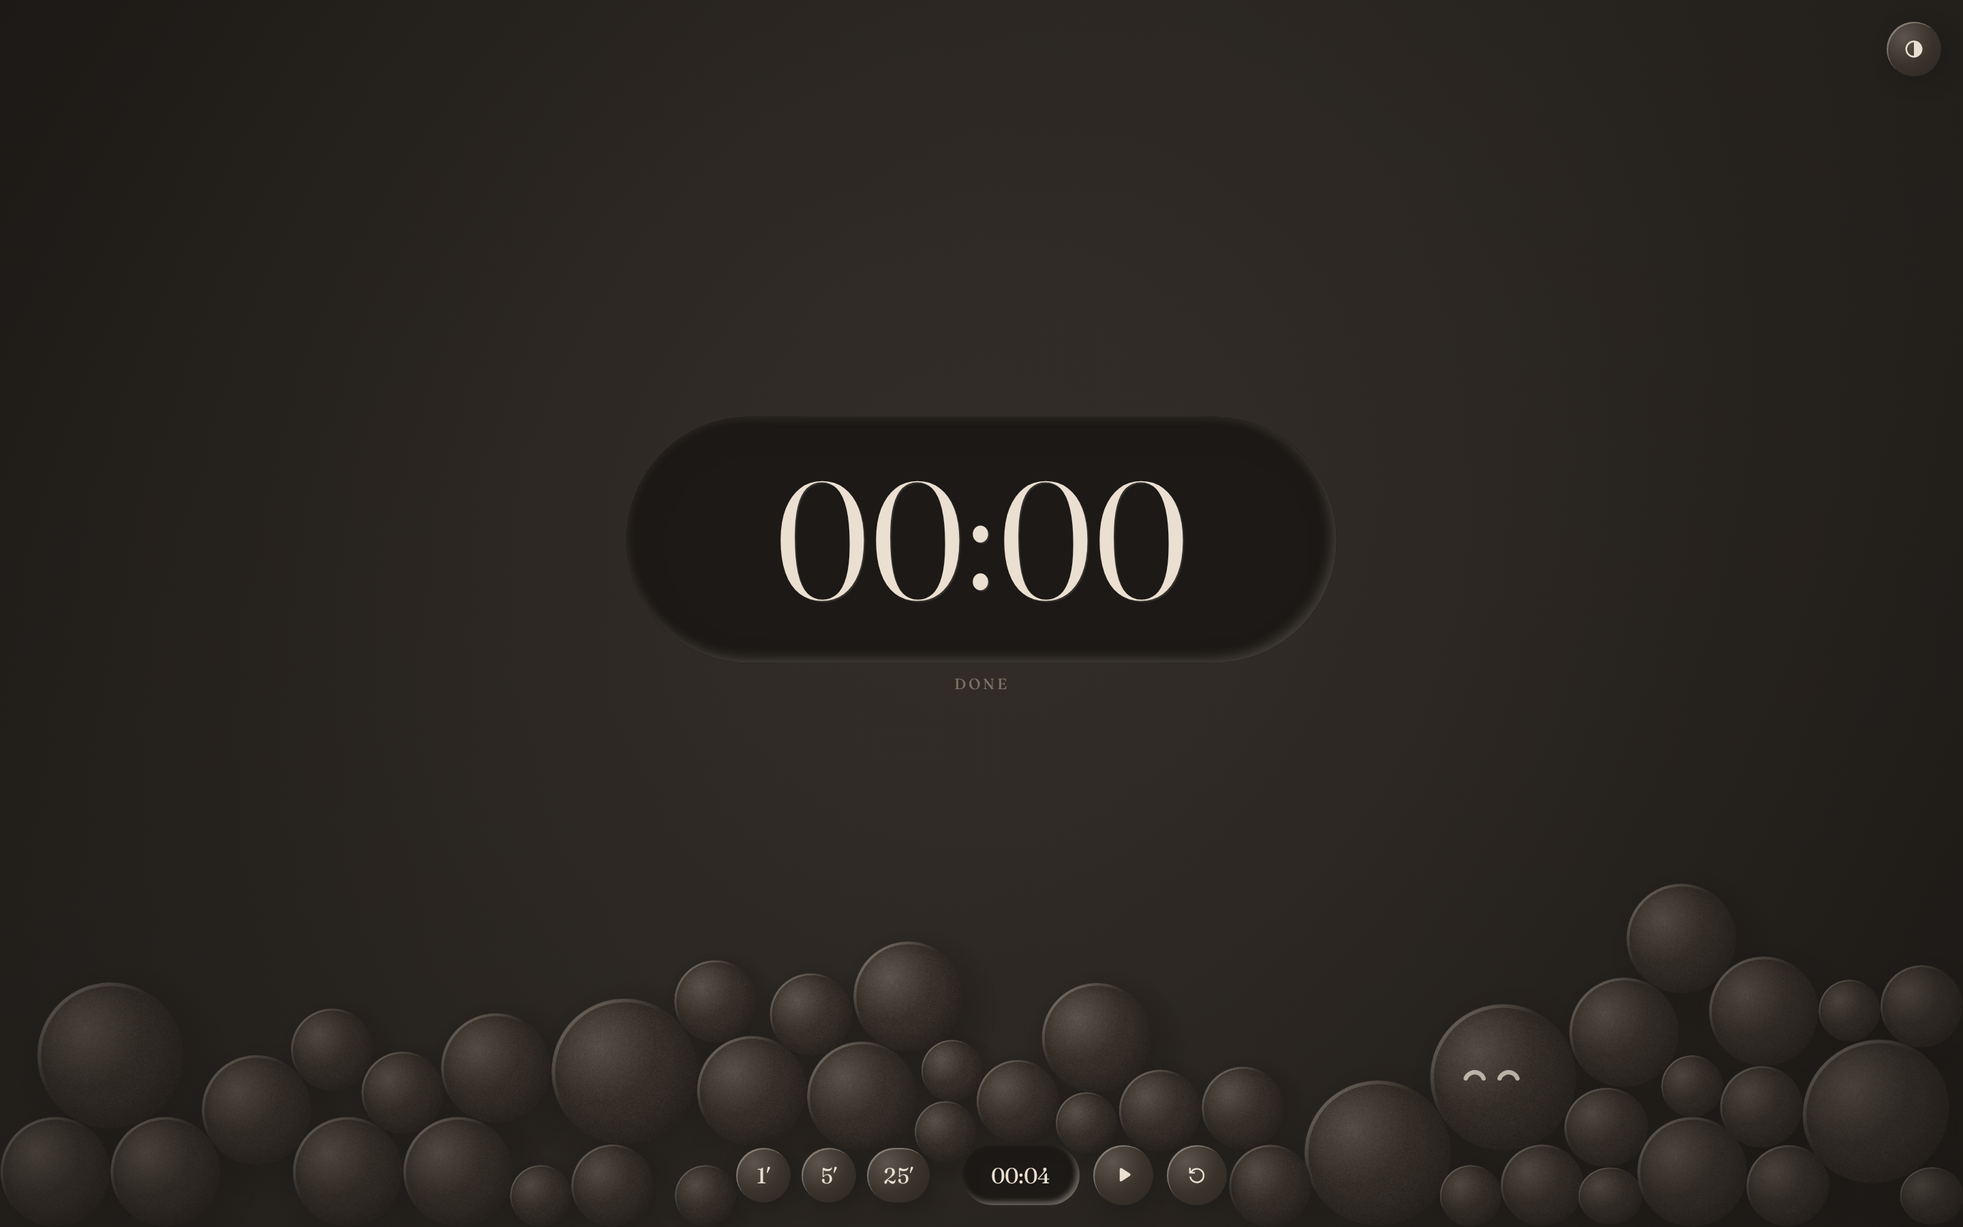
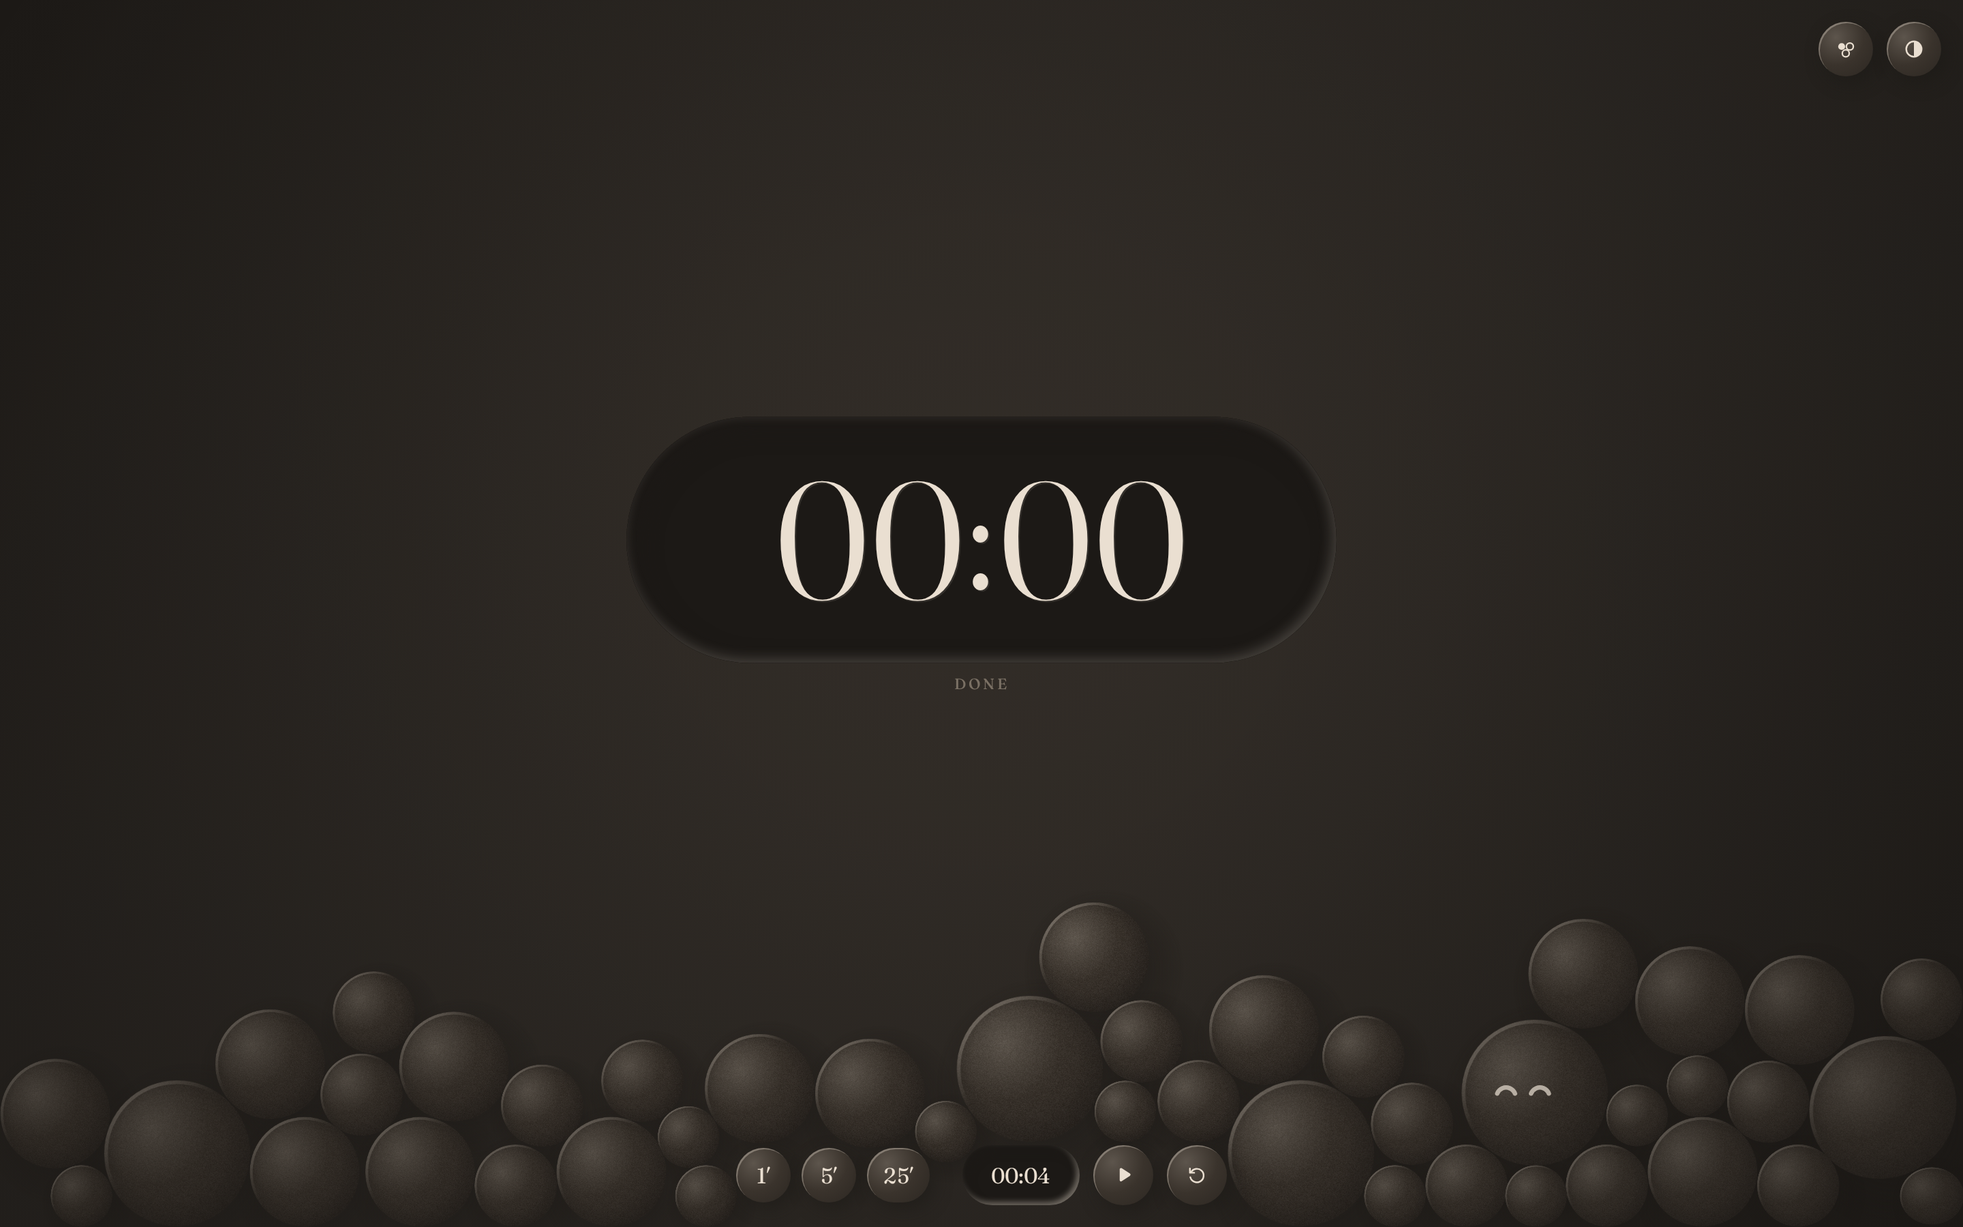
Expand multicolor mode into six glaze sets with a swatch tray
- Glazes: Kiln (mono), Celadon, Indigo, Matcha, Sakura, Sumi; each a full
  5-color light/dark system applied as tokens
- Debossed swatch tray from the glaze button; G key cycles; choice persists
- Legacy ?glaze=mixed maps to Celadon
- DESIGN.md section 10 rewritten; glaze-* screenshots

Claude-Session: https://claude.ai/code/session_01RTcCsnNEE6vf2bpxptQvy7

diff --git a/dots-countdown.html b/dots-countdown.html
@@ -16,9 +16,6 @@
   --umber: #4A3A2E;
   --ember: #C8643B;
   --ash:   #8C8072;
-  /* 多色陶石（Glaze: mixed）才使用的兩種釉色 */
-  --celadon: #AEBBA7;
-  --terra:   #C8643B;
   /* 光的角色（由具名色推得，不是新顏色） */
   --bright: var(--kiln);
   --deep:   var(--umber);
@@ -38,7 +35,6 @@
 @media (prefers-color-scheme: dark) {
   :root:not([data-theme="light"]) {
     --kiln:  #1C1916; --clay: #3A332C; --umber: #EADFD1; --ember: #E3804F; --ash: #7A7064;
-    --celadon: #2E3A33; --terra: #E3804F;
     --bright: var(--umber); --deep: var(--kiln);
     --hl: 22%; --dk: 45%; --sh-a: 55%; --rim-a: 35%; --wt-digits: 340;
     color-scheme: dark;
@@ -46,17 +42,11 @@
 }
 :root[data-theme="dark"] {
   --kiln:  #1C1916; --clay: #3A332C; --umber: #EADFD1; --ember: #E3804F; --ash: #7A7064;
-  --celadon: #2E3A33; --terra: #E3804F;
   --bright: var(--umber); --deep: var(--kiln);
   --hl: 22%; --dk: 45%; --sh-a: 55%; --rim-a: 35%; --wt-digits: 340;
   color-scheme: dark;
 }
-/* 多色陶石：5 色 = Kiln / Umber / Oat(=Clay) / Celadon / Terracotta。
-   Terracotta 兼任強調色；Ash 不再是具名色，改由 Kiln 混 Umber 58% 推得。 */
-:root[data-glaze="mixed"] {
-  --ember: var(--terra);
-  --ash: color-mix(in oklab, var(--kiln), var(--umber) 58%);
-}
+/* 釉組（多色陶石）：由 JS 以 inline 變數覆寫同一組 token，見 GLAZES 與 DESIGN.md §10 */
 
 * { box-sizing: border-box; }
 html, body { margin: 0; height: 100%; }
@@ -152,6 +142,33 @@ canvas#stage.grabbing { cursor: grabbing; }
 #play.paused { color: var(--ember); }   /* Ember 的第 2 種用途 */
 .corner { position: fixed; top: max(16px, env(safe-area-inset-top)); right: 16px; display: flex; gap: 10px; }
 .corner .clay { --size: 40px; }
+/* 釉組色票：凹陷的托盤，裡面是凸起的陶土色票 */
+.tray {
+  position: fixed; right: 16px; top: calc(max(16px, env(safe-area-inset-top)) + 54px);
+  display: flex; align-items: center; gap: 8px;
+  padding: 6px 6px 6px 16px; border-radius: 28px;
+  background: var(--kiln);
+  box-shadow:
+    inset 3px 4px 7px color-mix(in srgb, var(--deep) calc(var(--sh-a) * 1.3), transparent),
+    inset -2px -2px 4px color-mix(in srgb, var(--bright) 45%, transparent);
+  opacity: 0; visibility: hidden; transform: translateY(-6px);
+  transition: opacity var(--t3) var(--kiln-ease), transform var(--t3) var(--kiln-ease), visibility 0s linear var(--t3);
+}
+.tray.open { opacity: 1; visibility: visible; transform: none; transition-delay: 0s; }
+.tray-label {
+  font-size: var(--fs-0); font-weight: 500; letter-spacing: 0.14em; text-transform: uppercase;
+  color: var(--ash); min-width: 7.5em; white-space: nowrap;
+}
+.chips { display: flex; gap: 6px; }
+.chips .clay { --size: 36px; }
+.chips .clay svg { width: 22px; height: 22px; }
+#glaze[aria-expanded="true"] {
+  background: var(--kiln);
+  box-shadow:
+    inset 3px 4px 7px color-mix(in srgb, var(--deep) calc(var(--sh-a) * 1.3), transparent),
+    inset -2px -2px 4px color-mix(in srgb, var(--bright) 45%, transparent);
+}
+@media (max-width: 400px) { .tray-label { display: none; } .tray { padding-left: 6px; } }
 .sr { position: absolute; width: 1px; height: 1px; overflow: hidden; clip: rect(0 0 0 0); white-space: nowrap; }
 
 @media (max-width: 400px) {
@@ -172,12 +189,17 @@ canvas#stage.grabbing { cursor: grabbing; }
 <div class="sr" aria-live="polite" id="live"></div>
 
 <div class="corner">
-  <button class="clay round" id="glaze" aria-pressed="false" aria-label="多色陶石" title="多色陶石">
+  <button class="clay round" id="glaze" aria-expanded="false" aria-controls="tray" aria-label="釉組" title="釉組（G）">
     <svg viewBox="0 0 24 24" aria-hidden="true"><circle cx="8" cy="9.5" r="3.4" fill="currentColor"/><circle cx="16" cy="9.5" r="3.4" fill="none" stroke="currentColor" stroke-width="1.5"/><circle cx="12" cy="16.2" r="3.4" fill="none" stroke="currentColor" stroke-width="1.5"/></svg>
   </button>
   <button class="clay round" id="theme" aria-label="切換主題（自動）" title="主題：自動">
     <svg viewBox="0 0 24 24" aria-hidden="true"><circle cx="12" cy="12" r="7.5" fill="none" stroke="currentColor" stroke-width="1.6"/><path id="themeFill" d="M12 4.5a7.5 7.5 0 0 1 0 15z" fill="currentColor"/></svg>
   </button>
+</div>
+
+<div class="tray" id="tray" role="radiogroup" aria-label="釉組">
+  <span class="tray-label" id="trayLabel"></span>
+  <div class="chips" id="chips"></div>
 </div>
 
 <div class="bar" id="bar">
@@ -253,9 +275,34 @@ const ctx = cv.getContext('2d');
 const mqDark = matchMedia('(prefers-color-scheme: dark)');
 const mqReduce = matchMedia('(prefers-reduced-motion: reduce)');
 let reduced = mqReduce.matches || qs.get('reduced') === '1';
+
+/* 釉組：每組都是完整的 5 色系統（Kiln / Umber / 主釉 A / 副釉 B / 強調 C），亮暗各自設計。
+   A = 主要陶石與 Keeper、按鈕；B = 第二種陶石；C = 強調色，並以「未燒透」的版本點綴最小的陶石。 */
+const GLAZES = {
+  mono:    { zh: '原色', en: 'Kiln',
+    light: { kiln: '#EFE8DD', umber: '#4A3A2E', clay: '#D9C7B0', b: null,      accent: '#C8643B' },
+    dark:  { kiln: '#1C1916', umber: '#EADFD1', clay: '#3A332C', b: null,      accent: '#E3804F' } },
+  celadon: { zh: '青瓷', en: 'Celadon',
+    light: { kiln: '#EFE8DD', umber: '#4A3A2E', clay: '#D9C7B0', b: '#AEBBA7', accent: '#C8643B' },
+    dark:  { kiln: '#1C1916', umber: '#EADFD1', clay: '#3A332C', b: '#2E3A33', accent: '#E3804F' } },
+  indigo:  { zh: '靛染', en: 'Indigo',
+    light: { kiln: '#ECEAE5', umber: '#242A3A', clay: '#D8D4CB', b: '#8497B3', accent: '#B9532F' },
+    dark:  { kiln: '#13161D', umber: '#E3E6EC', clay: '#2D313D', b: '#33415C', accent: '#E0795A' } },
+  matcha:  { zh: '抹茶', en: 'Matcha',
+    light: { kiln: '#EDEBE1', umber: '#2F3527', clay: '#D8D3BF', b: '#A3B384', accent: '#A8751E' },
+    dark:  { kiln: '#171913', umber: '#E7E7DA', clay: '#33352A', b: '#3B4730', accent: '#DDAE52' } },
+  sakura:  { zh: '櫻', en: 'Sakura',
+    light: { kiln: '#F2EAE7', umber: '#4A3236', clay: '#E3D2CC', b: '#D2A9A6', accent: '#8E3B48' },
+    dark:  { kiln: '#1D1617', umber: '#F0E2E0', clay: '#3B2F31', b: '#5B3F43', accent: '#DE7584' } },
+  sumi:    { zh: '墨', en: 'Sumi',
+    light: { kiln: '#EAE9E6', umber: '#1F1F1E', clay: '#D0CEC9', b: '#8E8C87', accent: '#9C7428' },
+    dark:  { kiln: '#131313', umber: '#E8E6E1', clay: '#2F2E2C', b: '#4B4946', accent: '#D2A552' } },
+};
+const GLAZE_IDS = Object.keys(GLAZES);
+const normGlaze = g => g === 'mixed' ? 'celadon' : (GLAZES[g] ? g : null);
 let glaze = 'mono';
-try { glaze = localStorage.getItem('dots-glaze') === 'mixed' ? 'mixed' : 'mono'; } catch (e) {}
-if (qs.get('glaze') === 'mixed' || qs.get('glaze') === 'mono') glaze = qs.get('glaze');
+try { glaze = normGlaze(localStorage.getItem('dots-glaze')) || 'mono'; } catch (e) {}
+if (normGlaze(qs.get('glaze'))) glaze = normGlaze(qs.get('glaze'));
 
 let W = 0, H = 0, DPR = 1, R = 30, G = 1800;
 const FONT = '"Fraunces", Georgia, serif';
@@ -273,9 +320,9 @@ function readPalette() {
   const cs = getComputedStyle(root);
   const g = n => hex(cs.getPropertyValue(n));
   const dark = resolvedTheme() === 'dark';
-  pal = { kiln: g('--kiln'), clay: g('--clay'), umber: g('--umber'), ember: g('--ember'), ash: g('--ash'),
-          celadon: g('--celadon'), terra: g('--terra') };
-  if (glaze === 'mixed') { pal.ember = pal.terra; pal.ash = mix(pal.kiln, pal.umber, 0.58); }
+  pal = { kiln: g('--kiln'), clay: g('--clay'), umber: g('--umber'), ember: g('--ember'), ash: g('--ash') };
+  const set = GLAZES[glaze][dark ? 'dark' : 'light'];
+  pal.glazeB = set.b ? hex(set.b) : null;
   pal.bright = dark ? pal.umber : pal.kiln;
   pal.deep = dark ? pal.kiln : pal.umber;
   look = dark
@@ -286,10 +333,12 @@ function readPalette() {
 /* ════════════════════ 材質 sprite：霧面陶土（唯一材質） ════════════════════ */
 let dotSprites = [], shadowSprite, bgCanvas;
 function buildSprites() {
-  // 釉色 0 = Oat（原 Clay），1 = Celadon，2 = 赤陶本體。
-  // 純 Terracotta 保留給強調色；陶石用「未燒透」的赤陶：亮色混 Oat 35%，暗色混 Deep 45%
-  const bodies = [pal.clay, pal.celadon, look.dark ? mix(pal.terra, pal.deep, 0.45) : mix(pal.terra, pal.clay, 0.35)];
-  dotSprites = (glaze === 'mixed' ? bodies : [pal.clay]).map(makeClaySprite);
+  // 釉色 0 = 主釉 A，1 = 副釉 B，2 = 強調色的「未燒透」版本（純強調色只留給 UI 焦點）：
+  // 亮色混主釉 35%，暗色混 Deep 45%
+  const bodies = pal.glazeB
+    ? [pal.clay, pal.glazeB, look.dark ? mix(pal.ember, pal.deep, 0.45) : mix(pal.ember, pal.clay, 0.35)]
+    : [pal.clay];
+  dotSprites = bodies.map(makeClaySprite);
   buildShadowSprite();
 }
 function makeClaySprite(body) {
@@ -721,6 +770,7 @@ function readObstacles() {
   };
   if (!bar.classList.contains('hidden')) bar.querySelectorAll('.clay, .field').forEach(add);
   add(themeBtn); add(glazeBtn);
+  if (tray.classList.contains('open')) add(tray);
 }
 function collide() {
   const n = dots.length;
@@ -1045,14 +1095,50 @@ addEventListener('keydown', e => {
 addEventListener('pointermove', () => activity(performance.now()), { passive: true });
 
 const glazeBtn = document.getElementById('glaze');
+const tray = document.getElementById('tray');
+const trayLabel = document.getElementById('trayLabel');
+const chips = document.getElementById('chips');
+const TOKENS = ['--kiln', '--clay', '--umber', '--ember', '--ash'];
+function applyGlazeTokens() {
+  for (const t of TOKENS) root.style.removeProperty(t);
+  if (glaze === 'mono') return;               // 原色：完全沿用 CSS 的 token
+  const set = GLAZES[glaze][resolvedTheme()];
+  root.style.setProperty('--kiln', set.kiln);
+  root.style.setProperty('--clay', set.clay);
+  root.style.setProperty('--umber', set.umber);
+  root.style.setProperty('--ember', set.accent);
+  // Ash 不是具名色：Kiln 混 Umber 58%
+  const ash = mix(hex(set.kiln), hex(set.umber), 0.58);
+  root.style.setProperty('--ash', '#' + ash.map(v => v.toString(16).padStart(2, '0')).join(''));
+}
+function chipSVG(id) {
+  const c = GLAZES[id][resolvedTheme()], edge = 'stroke="currentColor" stroke-opacity=".28" stroke-width="1"';
+  if (!c.b) return `<svg viewBox="0 0 24 24" aria-hidden="true"><circle cx="12" cy="12" r="7" fill="${c.clay}" ${edge}/></svg>`;
+  return `<svg viewBox="0 0 24 24" aria-hidden="true"><circle cx="8" cy="9.5" r="4.2" fill="${c.clay}" ${edge}/><circle cx="16" cy="9.5" r="4.2" fill="${c.b}" ${edge}/><circle cx="12" cy="16.5" r="3.4" fill="${c.accent}" ${edge}/></svg>`;
+}
+function renderChips() {
+  chips.innerHTML = GLAZE_IDS.map(id =>
+    `<button class="clay round" role="radio" data-glaze="${id}" aria-checked="${id === glaze}" aria-pressed="${id === glaze}" aria-label="${GLAZES[id].zh}" title="${GLAZES[id].zh} ${GLAZES[id].en}">${chipSVG(id)}</button>`).join('');
+  trayLabel.textContent = `${GLAZES[glaze].zh} · ${GLAZES[glaze].en}`;
+}
 function applyGlaze(g) {
   glaze = g;
-  if (g === 'mixed') root.dataset.glaze = 'mixed'; else delete root.dataset.glaze;
-  glazeBtn.setAttribute('aria-pressed', String(g === 'mixed'));
-  glazeBtn.title = g === 'mixed' ? '多色陶石（開）' : '多色陶石（關）';
   try { localStorage.setItem('dots-glaze', g); } catch (e) {}
 }
-glazeBtn.addEventListener('click', () => { applyGlaze(glaze === 'mixed' ? 'mono' : 'mixed'); retheme(); announce(glaze === 'mixed' ? '多色陶石' : '單色陶石'); });
+function selectGlaze(g) { applyGlaze(g); retheme(); announce(`釉組：${GLAZES[g].zh}`); }
+function setTray(open) {
+  tray.classList.toggle('open', open);
+  glazeBtn.setAttribute('aria-expanded', String(open));
+  if (open) renderChips();
+}
+glazeBtn.addEventListener('click', () => setTray(!tray.classList.contains('open')));
+chips.addEventListener('click', e => { const b = e.target.closest('[data-glaze]'); if (b) selectGlaze(b.dataset.glaze); });
+addEventListener('pointerdown', e => { if (!e.target.closest('#tray, #glaze')) setTray(false); }, true);
+addEventListener('keydown', e => {
+  if (e.target === input) return;
+  if (e.key === 'Escape') setTray(false);
+  if (e.key === 'g' || e.key === 'G') selectGlaze(GLAZE_IDS[(GLAZE_IDS.indexOf(glaze) + 1) % GLAZE_IDS.length]);
+});
 const THEMES = ['auto', 'light', 'dark'];
 function applyTheme(t) {
   if (t === 'auto') delete root.dataset.theme; else root.dataset.theme = t;
@@ -1064,7 +1150,7 @@ function applyTheme(t) {
 }
 let themeIdx = THEMES.indexOf(qs.get('theme')); if (themeIdx < 0) themeIdx = 0;
 themeBtn.addEventListener('click', () => { themeIdx = (themeIdx + 1) % 3; applyTheme(THEMES[themeIdx]); });
-function retheme() { readPalette(); buildSprites(); layoutClock(); buildBackground(); }
+function retheme() { applyGlazeTokens(); readPalette(); buildSprites(); layoutClock(); buildBackground(); if (tray.classList.contains('open')) renderChips(); }
 mqDark.addEventListener('change', retheme);
 mqReduce.addEventListener('change', e => { reduced = e.matches; if (reduced) { well = null; ripple = null; breath = null; } });
 
@@ -1085,6 +1171,7 @@ addEventListener('resize', resize);
 
 /* ════════════════════ 啟動 ════════════════════ */
 applyGlaze(glaze);
+applyGlazeTokens();
 readPalette();
 applyTheme(THEMES[themeIdx]);
 resize();

diff --git a/DESIGN.md b/DESIGN.md
@@ -208,38 +208,60 @@
 
 ---
 
-## 10. 變體：多色陶石（Glaze: mixed）
+## 10. 變體：釉組（多色陶石）
 
-右上角的「三顆石」按鈕可以切換。偏好存在瀏覽器裡，也可以用網址參數 `?glaze=mixed` 指定。
-**只換釉色，其餘系統完全不變**：光源、材質、動態、字體、構圖規則都沿用上面各章。
+右上角的「三顆石」按鈕會打開一個**凹陷的色票托盤**，裡面是 6 顆凸起的陶土色票。也可以按 `G` 輪流切換，或在網址加 `?glaze=indigo` 之類的參數。
+選擇會存在瀏覽器裡；舊的 `?glaze=mixed` 會對應到「青瓷」。
+**只換顏色，其餘系統完全不變**：光源、材質、動態、字體、構圖規則都沿用前面各章。
 
-### 10.1 色彩：仍然只有 5 個具名色
+### 10.1 結構：每一組仍然只有 5 個具名色
 
-| Token | 名稱 | 亮色 | 暗色 | 用途 |
-|---|---|---|---|---|
-| `--kiln`    | Kiln 窯底     | `#EFE8DD` | `#1C1916` | 背景、凹槽底面 |
-| `--umber`   | Umber 焦褐    | `#4A3A2E` | `#EADFD1` | 數字、文字、眼睛 |
-| `--clay`    | Oat 燕麥（原 Clay） | `#D9C7B0` | `#3A332C` | 主要陶石、按鈕、**Keeper 固定用這色** |
-| `--celadon` | Celadon 青瓷  | `#AEBBA7` | `#2E3A33` | 第二種陶石 |
-| `--terra`   | Terracotta 赤陶 | `#C8643B` | `#E3804F` | 強調色（取代 Ember，值相同）＋點綴陶石 |
+| 角色 | 對應 token | 用途 |
+|---|---|---|
+| Kiln 窯底 | `--kiln` | 背景、凹槽底面 |
+| Ink 墨（原 Umber） | `--umber` | 數字、文字、眼睛 |
+| A 主釉 | `--clay` | 主要陶石、按鈕，**Keeper 固定用這色** |
+| B 副釉 | — | 第二種陶石 |
+| C 強調 | `--ember` | 最後 10 秒數字、暫停中的播放鍵、輸入框底線；另以「未燒透」的版本點綴陶石 |
 
-- Ash 在此模式**不是具名色**，改為推算色：`Ash = Kiln 混 Umber 58%`，對比度與原本的 Ash 相當。
-- 陶石用的赤陶是「未燒透」的版本：亮色 = Terracotta 混 Oat 35%，暗色 = Terracotta 混 Deep 45%。
-  純 Terracotta 只保留給強調色（最後 10 秒數字、暫停中的播放鍵、輸入框底線），維持「同一時間一個焦點」。
+- Ash 在釉組裡**不是具名色**，改為推算色 `Kiln 混 Ink 58%`。
+- 陶石上的 C 是「未燒透」版：亮色 = C 混 A 35%，暗色 = C 混 Deep 45%。純 C 只給 UI 焦點，維持「同一時間一個焦點」。
+- 色票托盤裡會同時出現其他釉組的顏色，這是唯一允許的例外：它是「選色用的樣本」，只在托盤打開時出現。
 
-### 10.2 分配規則
+### 10.2 六組
+
+| id | 名稱 | 模式 | Kiln | Ink | A | B | C |
+|---|---|---|---|---|---|---|---|
+| `mono` | 原色 Kiln | 亮 | `#EFE8DD` | `#4A3A2E` | `#D9C7B0` | — | `#C8643B` |
+| | | 暗 | `#1C1916` | `#EADFD1` | `#3A332C` | — | `#E3804F` |
+| `celadon` | 青瓷 Celadon | 亮 | `#EFE8DD` | `#4A3A2E` | `#D9C7B0` | `#AEBBA7` | `#C8643B` |
+| | | 暗 | `#1C1916` | `#EADFD1` | `#3A332C` | `#2E3A33` | `#E3804F` |
+| `indigo` | 靛染 Indigo | 亮 | `#ECEAE5` | `#242A3A` | `#D8D4CB` | `#8497B3` | `#B9532F` |
+| | | 暗 | `#13161D` | `#E3E6EC` | `#2D313D` | `#33415C` | `#E0795A` |
+| `matcha` | 抹茶 Matcha | 亮 | `#EDEBE1` | `#2F3527` | `#D8D3BF` | `#A3B384` | `#A8751E` |
+| | | 暗 | `#171913` | `#E7E7DA` | `#33352A` | `#3B4730` | `#DDAE52` |
+| `sakura` | 櫻 Sakura | 亮 | `#F2EAE7` | `#4A3236` | `#E3D2CC` | `#D2A9A6` | `#8E3B48` |
+| | | 暗 | `#1D1617` | `#F0E2E0` | `#3B2F31` | `#5B3F43` | `#DE7584` |
+| `sumi` | 墨 Sumi | 亮 | `#EAE9E6` | `#1F1F1E` | `#D0CEC9` | `#8E8C87` | `#9C7428` |
+| | | 暗 | `#131313` | `#E8E6E1` | `#2F2E2C` | `#4B4946` | `#D2A552` |
+
+每一組的 Kiln 與 Ink 都帶有該組的色溫，例如靛染偏冷藍、抹茶偏綠，所以背景、文字和陶石屬於同一個氣氛，不只是換掉球的顏色。
+
+### 10.3 分配規則
 
 | 釉色 | 比例（約） | 限制 |
 |---|---|---|
-| Oat | 55% | Keeper 永遠是 Oat，身分不隨模式改變 |
-| Celadon | 35% | 任何尺寸 |
-| Terracotta | 10% | **只出現在最小兩級（0.56R、0.42R）**，當作點綴 |
+| A | 55% | Keeper 永遠是 A |
+| B | 35% | 任何尺寸 |
+| C（未燒透） | 10% | **只出現在最小兩級（0.56R、0.42R）** |
 
-釉色由獨立的亂數序列決定，切換模式不會改變陶石的位置和大小。
+釉色由獨立的亂數序列決定，切換釉組不會改變陶石的位置和大小。
 
-### 10.3 自我檢查
+### 10.4 自我檢查
 
 | # | 發現的不一致 | 修正 |
 |---|---|---|
-| 1 | 亮色模式下赤陶陶石與最後 10 秒的 Ember 數字同色同飽和度，形成兩個焦點 | 陶石本體改為 Terracotta 混 Oat 35%，純色只留給強調 |
-| 2 | 若直接新增兩色會超過 5 色上限 | Ash 降為推算色，Terracotta 與強調色合併為同一個具名色 |
+| 1 | 青瓷亮色模式下，赤陶陶石與最後 10 秒的強調數字同色同飽和度，形成兩個焦點 | 陶石改用「未燒透」的 C，純 C 只給 UI |
+| 2 | 直接加入新釉色會超過 5 色上限 | Ash 降為推算色，C 同時擔任強調色與點綴釉 |
+| 3 | 抹茶與墨的金色強調在亮底上對比不足 | 亮色的 C 加深到 `#A8751E`、`#9C7428` |
+| 4 | 手機寬度放不下托盤標籤 | 400px 以下隱藏文字標籤，只留色票（仍有 aria-label） |
